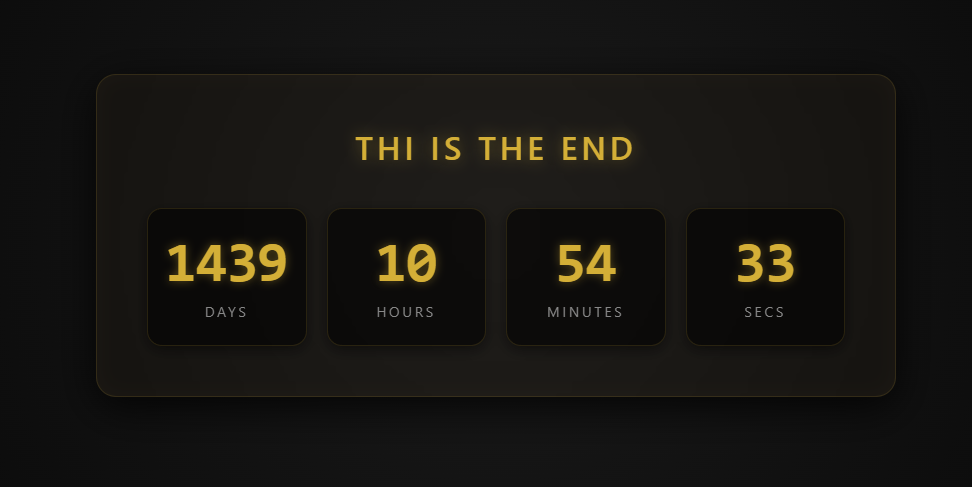
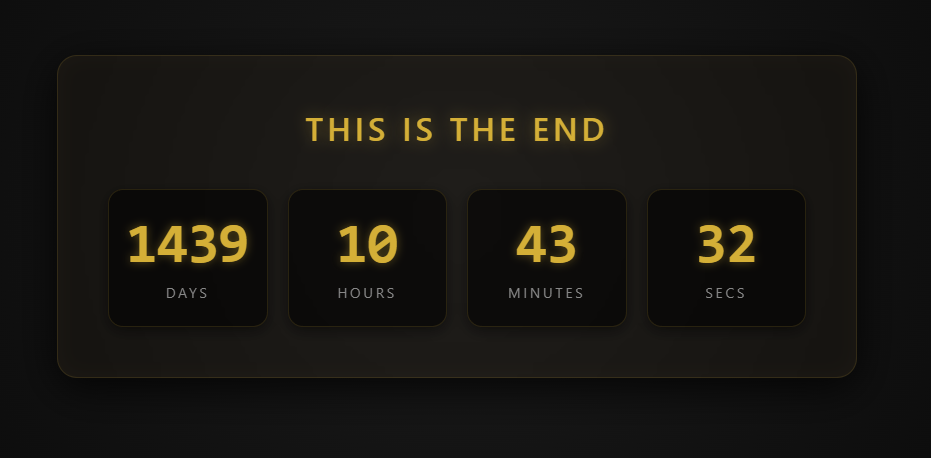
fix

diff --git a/index.php b/index.php
@@ -4,7 +4,7 @@
 date_default_timezone_set('Asia/Tehran'); // Change to your timezone
 $target_date_string = "2030-4-8 03:30:00"; // Set you date
 
-$timeheader = "Thi is The End"; // Your timer header
+$timeheader = "This is The End"; // Your timer header
 $finishalarm = "The Event has been started"; // Message to show after countdown finished
 // ==========================================
 

diff --git a/README.md b/README.md
@@ -16,4 +16,4 @@ Synchronizes with a target date set on the server. This ensures that every visit
 
 ## Configiuration
 
-Just change whatever you want in the begining of the code.
+- Just change whatever you want in the begining of the code.
